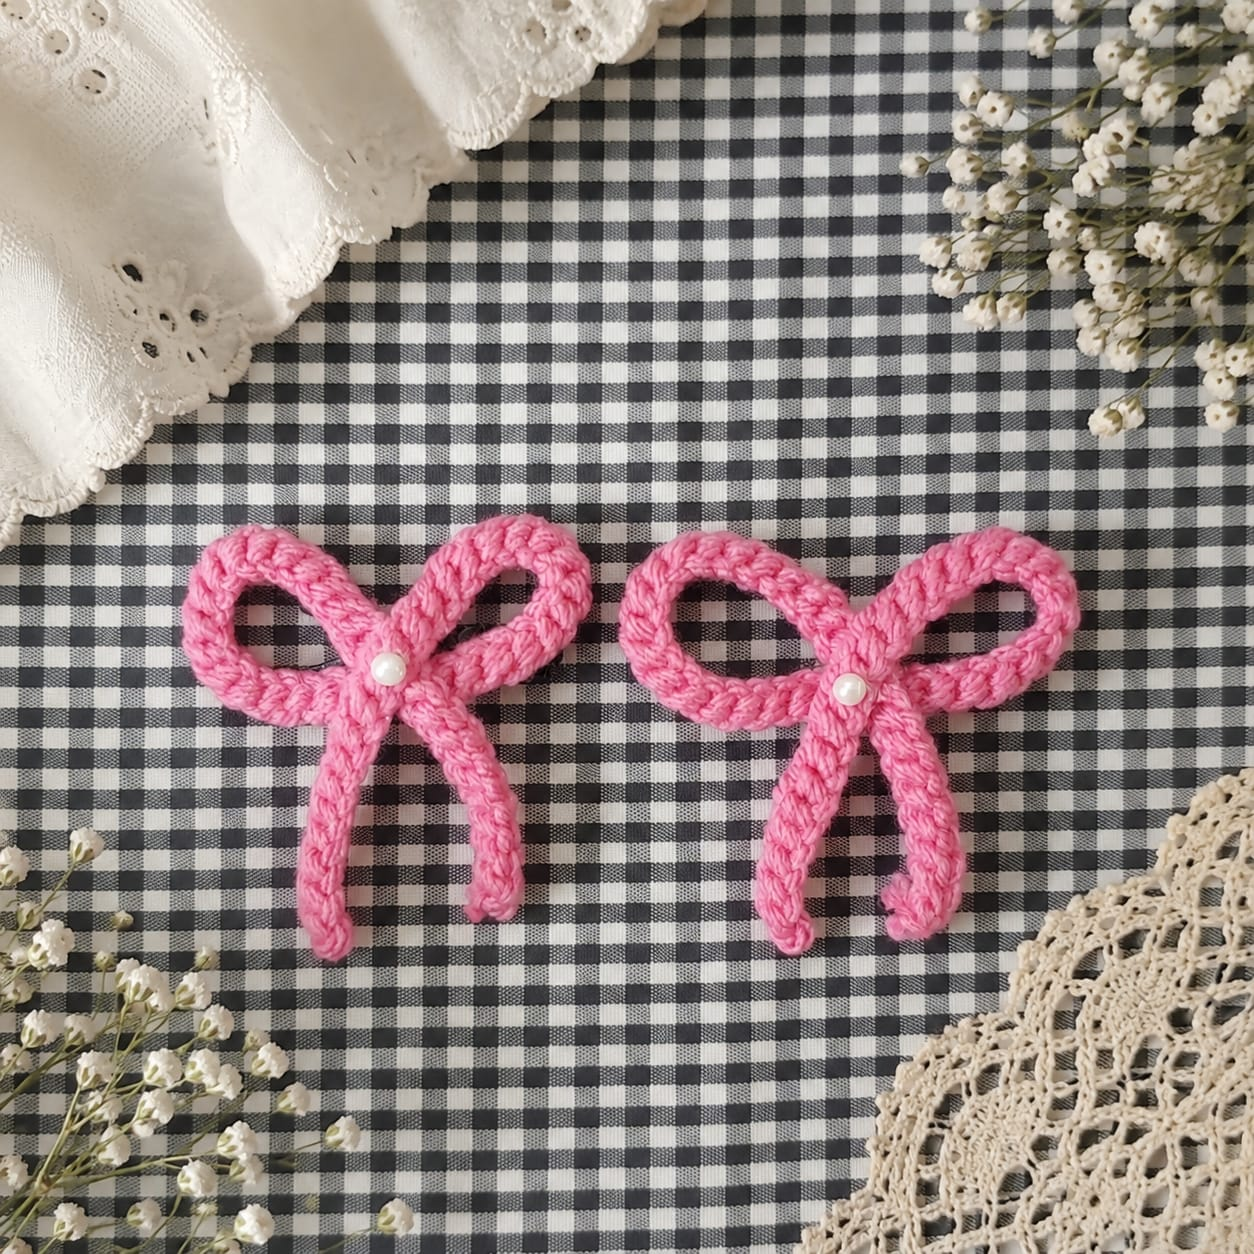
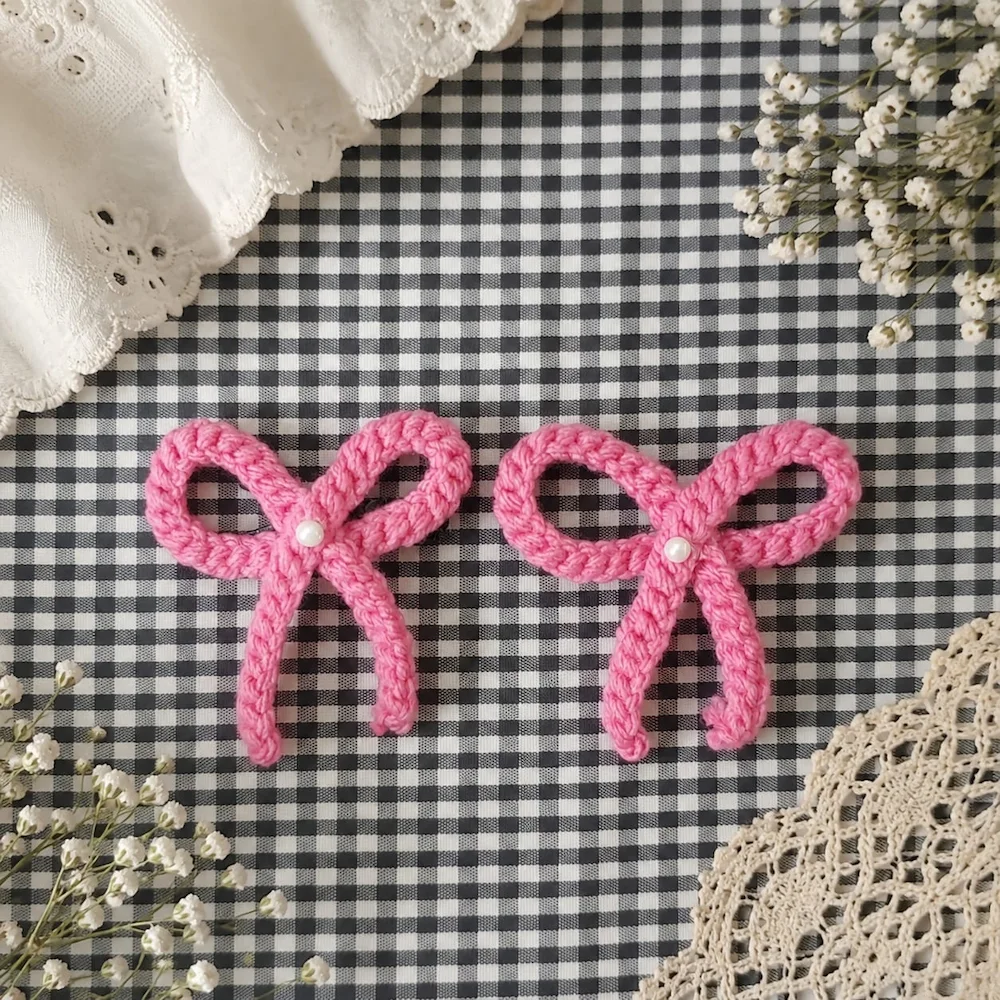
Add lazy loading to images

diff --git a/src/components/Hero.tsx b/src/components/Hero.tsx
@@ -154,26 +154,26 @@ export default function Hero() {
             {/* Decorative circles */}
             <div
               style={{
-                // position: 'absolute',
-                // top: '-2rem',
-                // right: '-2rem',
-                // width: '10rem',
-                // height: '10rem',
-                // borderRadius: '50%',
-                // background: 'var(--accent-light)',
-                // opacity: 0.4,
+                position: 'absolute',
+                top: '-2rem',
+                right: '-2rem',
+                width: '10rem',
+                height: '10rem',
+                borderRadius: '50%',
+                background: 'var(--accent-light)',
+                opacity: 0.4,
               }}
             />
             <div
               style={{
-                // position: 'absolute',
-                // bottom: '-1.5rem',
-                // left: '-1.5rem',
-                // width: '8rem',
-                // height: '8rem',
-                // borderRadius: '50%',
-                // background: 'var(--beige-mid)',
-                // opacity: 0.5,
+                position: 'absolute',
+                bottom: '-1.5rem',
+                left: '-1.5rem',
+                width: '8rem',
+                height: '8rem',
+                borderRadius: '50%',
+                background: 'var(--beige-mid)',
+                opacity: 0.5,
               }}
             />
 